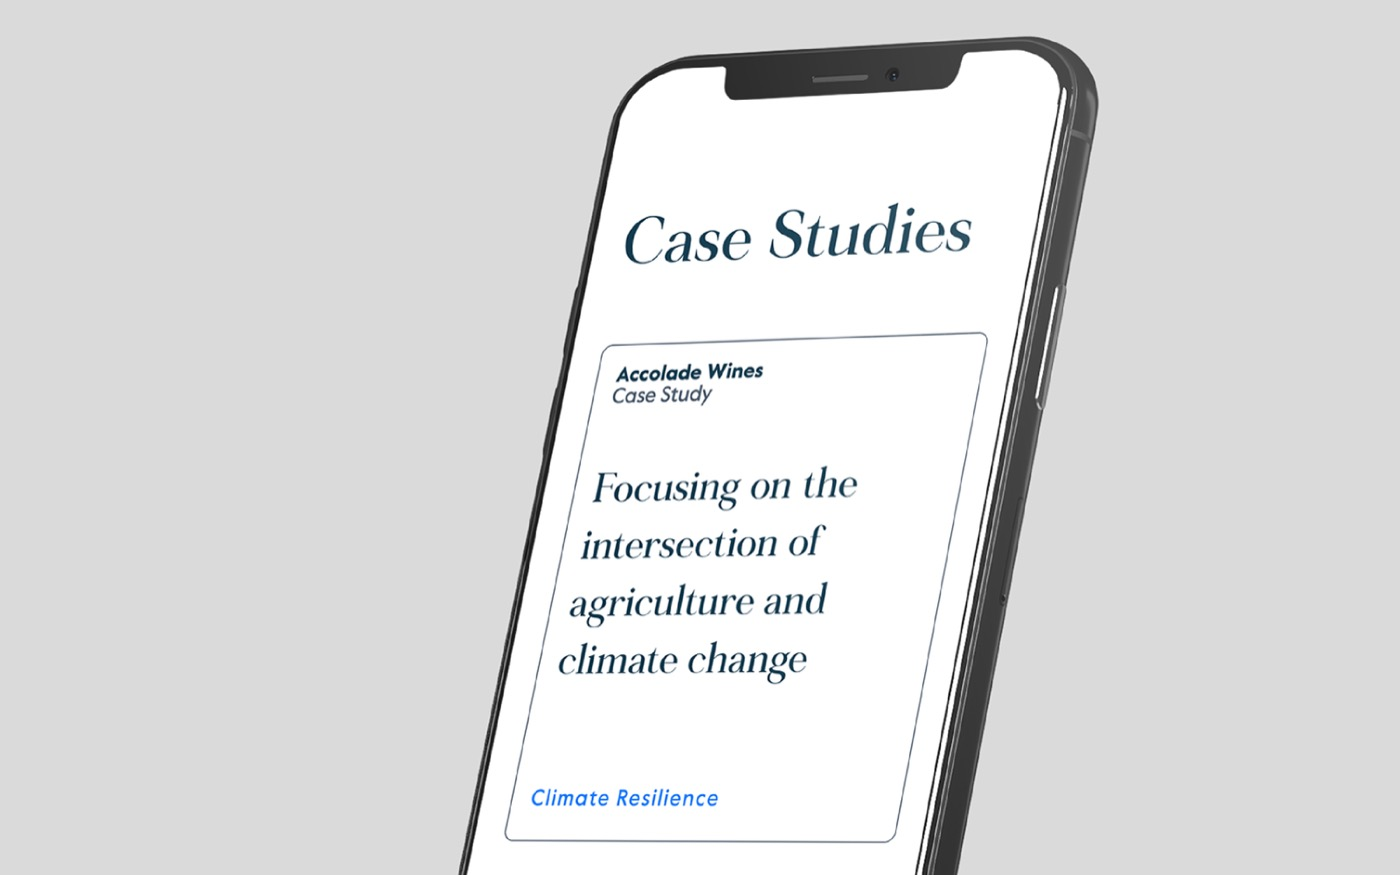
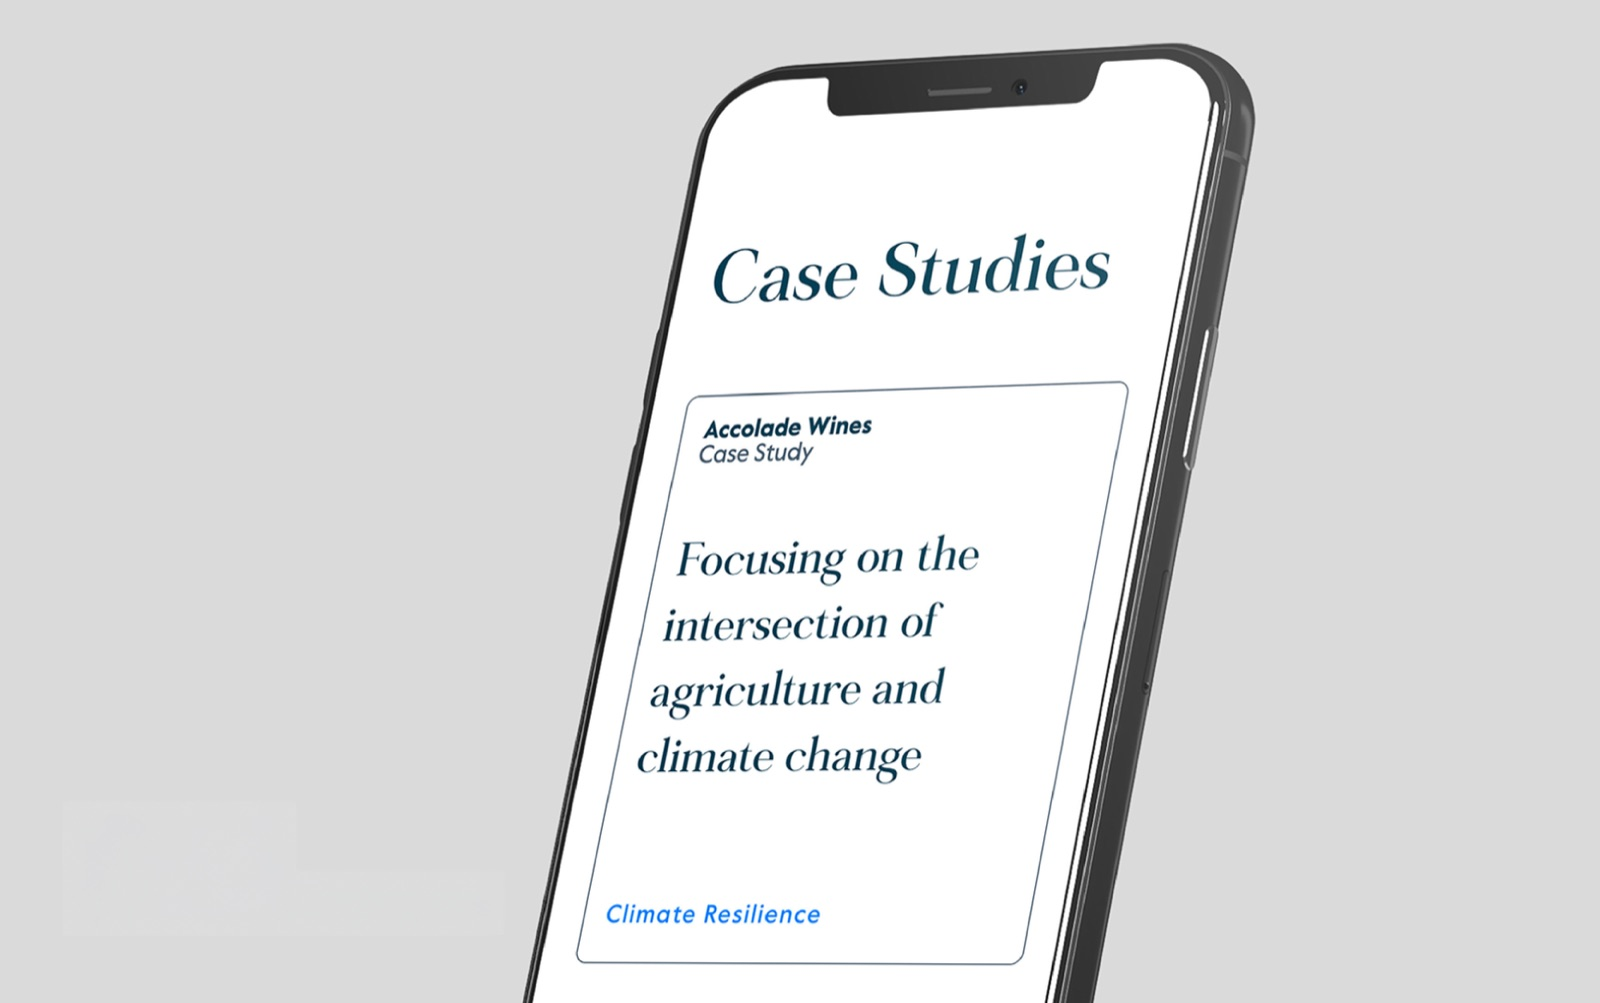
replace Carlyle Impact Review cover with phone mockup image

diff --git a/index.html b/index.html
@@ -203,7 +203,7 @@
       <article class="project-card" data-category="Finance">
         <a href="carlyle-impact-review.html" class="card-link">
           <div class="img-wrap" data-gallery="images/Carlyle.jpg,images/cir-mockup.jpg,images/cir-scroll-016.jpg,images/cir-scroll-003.jpg">
-            <img src="images/Carlyle.jpg" alt="Carlyle Impact Review" loading="lazy" style="object-position: calc(25% - 15px) calc(85% + 10px); transform: scale(1.08);" />
+            <img src="images/Carlyle.jpg" alt="Carlyle Impact Review" loading="lazy" />
           </div>
           <div class="card-meta">
             <span class="card-title">Carlyle Impact Review</span>